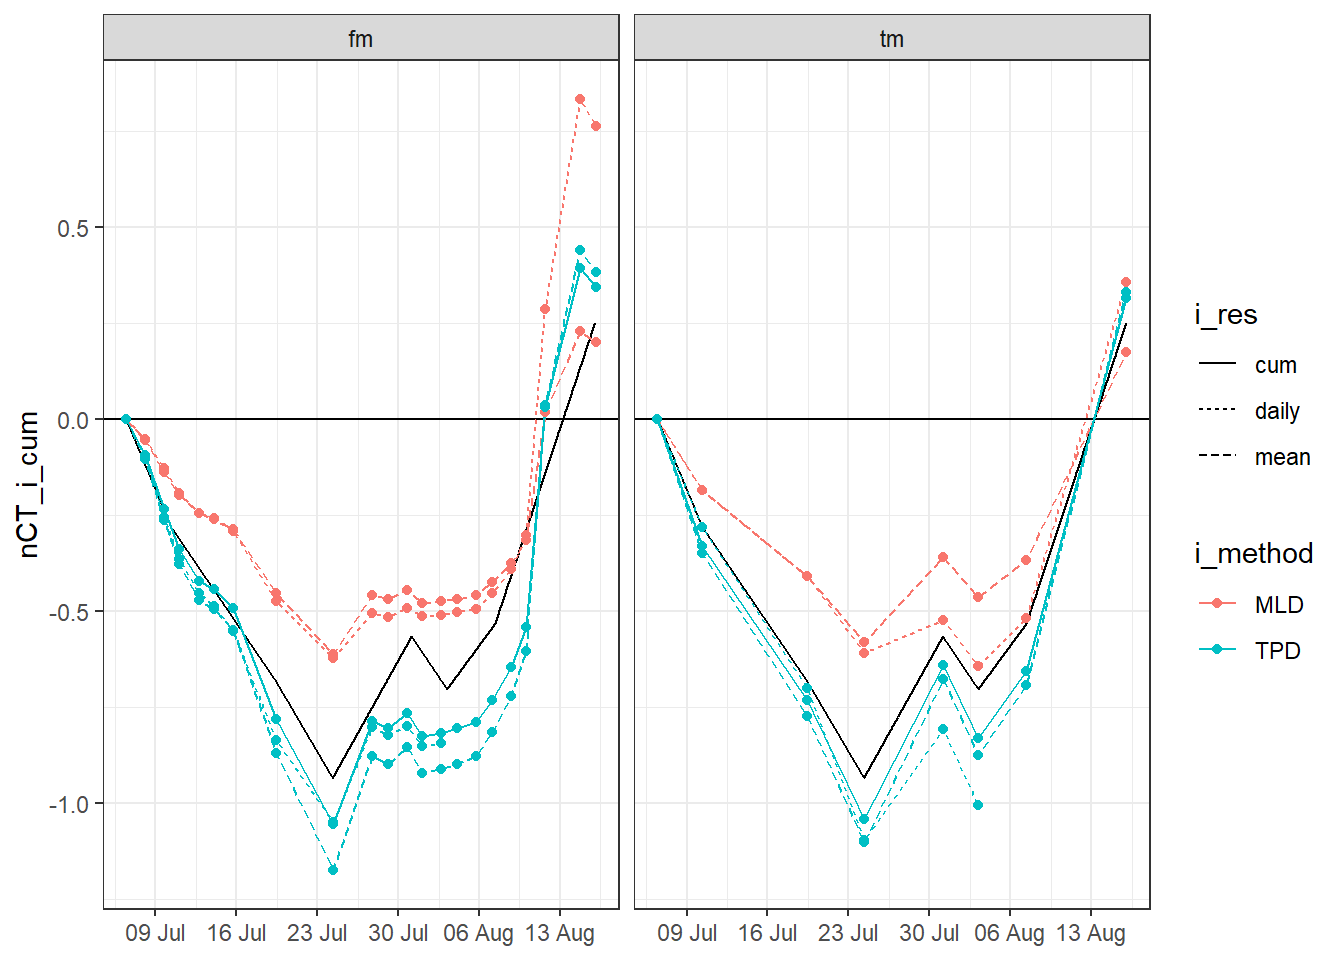
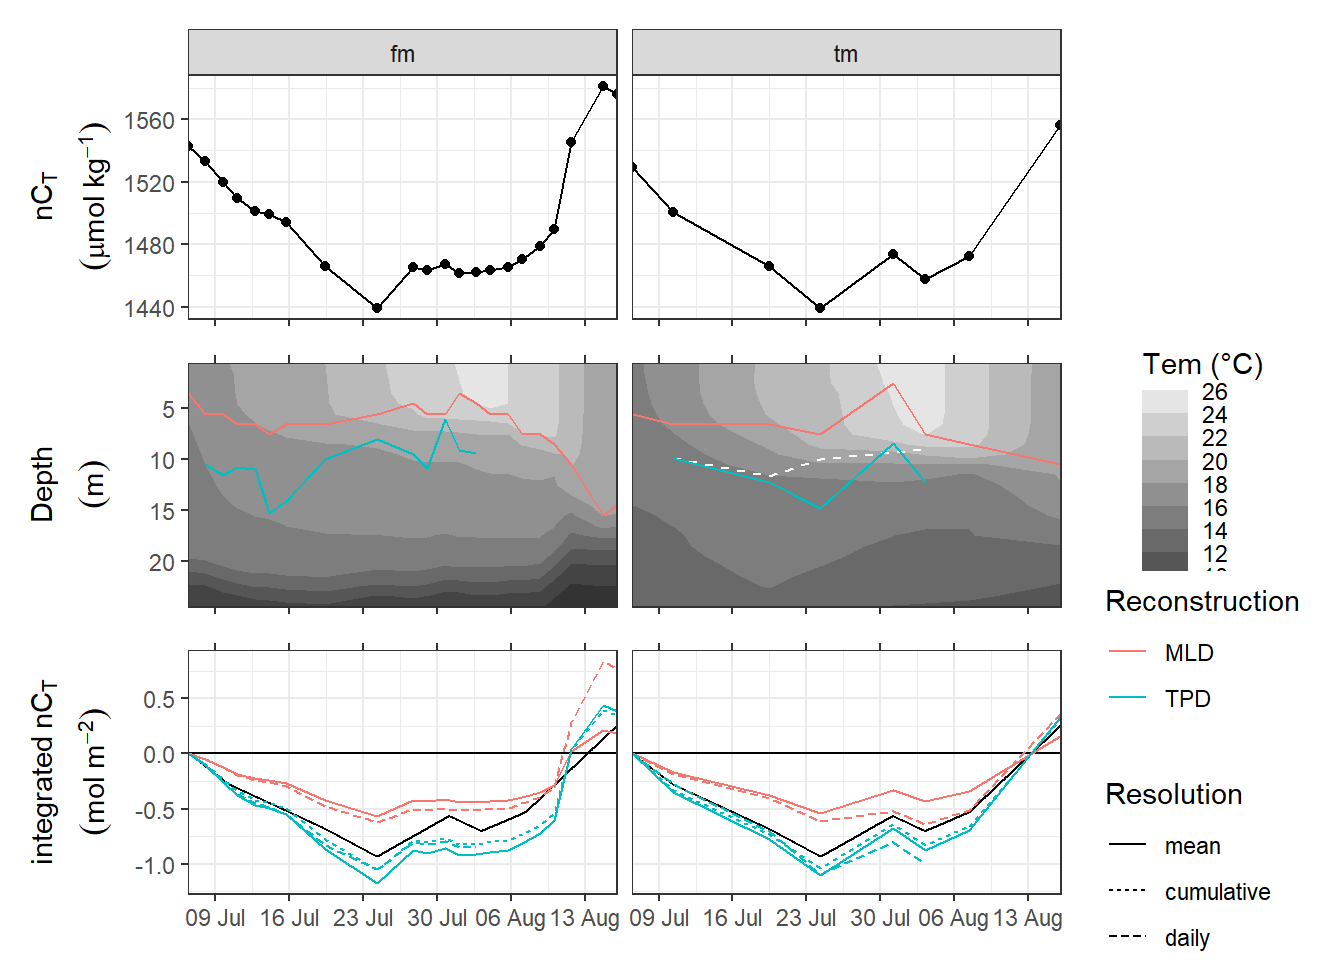
Build site.

diff --git a/docs/NCP_reconstruction.html b/docs/NCP_reconstruction.html
@@ -561,16 +561,16 @@ This reproducible <a href="http://rmarkdown.rstudio.com">R Markdown</a> analysis
 <div class="panel panel-default">
 <div class="panel-heading">
 <p class="panel-title">
-<a data-toggle="collapse" data-parent="#workflowr-checks" href="#strongRepositoryversionstrongahrefhttpsgithubcomjensdanielmuellerBloomSailtree2378108a87af3fb64e4fb4013e9561f3bdd7a095targetblank2378108a"> <span class="glyphicon glyphicon-ok text-success" aria-hidden="true"></span> <strong>Repository version:</strong> <a href="https://github.com/jens-daniel-mueller/BloomSail/tree/2378108a87af3fb64e4fb4013e9561f3bdd7a095" target="_blank">2378108</a> </a>
+<a data-toggle="collapse" data-parent="#workflowr-checks" href="#strongRepositoryversionstrongahrefhttpsgithubcomjensdanielmuellerBloomSailtreeef996405125132e45a9bcc71fbc90c40c1acdbdctargetblankef99640a"> <span class="glyphicon glyphicon-ok text-success" aria-hidden="true"></span> <strong>Repository version:</strong> <a href="https://github.com/jens-daniel-mueller/BloomSail/tree/ef996405125132e45a9bcc71fbc90c40c1acdbdc" target="_blank">ef99640</a> </a>
 </p>
 </div>
[2 lines of base64/hex data omitted]
 <div class="panel-body">
 <p>
 Great! You are using Git for version control. Tracking code development and connecting the code version to the results is critical for reproducibility.
 </p>
 <p>
-The results in this page were generated with repository version <a href="https://github.com/jens-daniel-mueller/BloomSail/tree/2378108a87af3fb64e4fb4013e9561f3bdd7a095" target="_blank">2378108</a>. See the <em>Past versions</em> tab to see a history of the changes made to the R Markdown and HTML files.
+The results in this page were generated with repository version <a href="https://github.com/jens-daniel-mueller/BloomSail/tree/ef996405125132e45a9bcc71fbc90c40c1acdbdc" target="_blank">ef99640</a>. See the <em>Past versions</em> tab to see a history of the changes made to the R Markdown and HTML files.
 </p>
 <p>
 Note that you need to be careful to ensure that all relevant files for the analysis have been committed to Git prior to generating the results (you can use <code>wflow_publish</code> or <code>wflow_git_commit</code>). workflowr only checks the R Markdown file, but you know if there are other scripts or data files that it depends on. Below is the status of the Git repository when the results were generated:
@@ -588,6 +588,9 @@ Ignored files:
     Ignored:    data/_summarized_data_files/
     Ignored:    data/backup/
     Ignored:    output/Plots/Figures_publication/.tmp.drivedownload/
+
+Untracked files:
+    Untracked:  output/Plots/Figures_publication/Article/reconstruction_timeseries.pdf
 
 </code></pre>
 <p>
@@ -626,6 +629,40 @@ Message
 </tr>
 </thead>
 <tbody>
+<tr>
+<td>
+Rmd
+</td>
+<td>
+<a href="https://github.com/jens-daniel-mueller/BloomSail/blob/ef996405125132e45a9bcc71fbc90c40c1acdbdc/analysis/NCP_reconstruction.Rmd" target="_blank">ef99640</a>
+</td>
+<td>
+jens-daniel-mueller
+</td>
+<td>
+2020-05-20
+</td>
+<td>
+finalized reconstruction approach
+</td>
+</tr>
+<tr>
+<td>
+html
+</td>
+<td>
+<a href="https://rawcdn.githack.com/jens-daniel-mueller/BloomSail/1e158374dfe6f37c60f2f5ee35c718c925542594/docs/NCP_reconstruction.html" target="_blank">1e15837</a>
+</td>
+<td>
+jens-daniel-mueller
+</td>
+<td>
+2020-05-20
+</td>
+<td>
+Build site.
+</td>
+</tr>
 <tr>
 <td>
 Rmd
@@ -908,7 +945,8 @@ library(metR)</code></pre>
 surface_dep &lt;- 6
 integration_dep &lt;- 12
 
-date_CT_min &lt;- ymd_hms(&quot;2018-07-24 07:58:29&quot;)</code></pre>
+date_CT_min &lt;- ymd_hms(&quot;2018-07-24 07:58:29&quot;)
+date_tem_max &lt;- ymd_hms(&quot;2018-08-04 00:00:00&quot;)</code></pre>
 </div>
 <div id="bloomsail-data" class="section level1">
 <h1><span class="header-section-number">2</span> BloomSail data</h1>
@@ -1090,7 +1128,11 @@ p_surface + p_integrated + p_pen_dep +
   &lt;chr&gt;      &lt;dbl&gt;    &lt;dbl&gt;
 1 nCT         10.1     1.11
 2 tem         11.5     2.46</code></pre>
-<pre class="r"><code>rm(p_surface, p_integrated, p_pen_dep)
+<pre class="r"><code>CPD &lt;- TPD %&gt;% 
+  filter(var == &quot;nCT&quot;) %&gt;% 
+  drop_na()
+
+rm(p_surface, p_integrated, p_pen_dep)
 rm(TPD, TPD_mean, tm_profiles_ID_long)</code></pre>
 </div>
 </div>
@@ -1504,7 +1546,7 @@ MLD &lt;- tm_fm_gt_MLD %&gt;%
 
 rm(tm_fm_gt_MLD)</code></pre>
 <pre class="r"><code>MLD_mean &lt;- MLD %&gt;% 
-  filter(date_time_ID &lt;= date_CT_min) %&gt;% 
+  filter(date_time_ID &lt;= date_tem_max) %&gt;% 
   group_by(source) %&gt;% 
   summarise(i_dep = mean(i_dep, na.rm = TRUE)) %&gt;% 
   ungroup() %&gt;% 
@@ -1711,7 +1753,7 @@ p_surface + p_integrated + p_TPD +
 <pre class="r"><code>TPD &lt;- TPD %&gt;% 
   select(date_time_ID, source, i_dep) %&gt;% 
   mutate(i_method = &quot;TPD&quot;, i_res = &quot;daily&quot;) %&gt;% 
-  filter(date_time_ID &lt; ymd_h(&quot;2018-08-04 00&quot;)) %&gt;% 
+  filter(date_time_ID &lt; date_tem_max) %&gt;% 
   mutate(i_dep = if_else(is.na(i_dep), 0, i_dep))
 
 TPD_cum &lt;- TPD_cum %&gt;% 
@@ -1732,6 +1774,42 @@ TPD &lt;- full_join(TPD, TPD_mean)
 rm(TPD_cum, TPD_mean, MLD_mean)</code></pre>
 <pre class="r"><code>i_dep &lt;- full_join(MLD, TPD)
 rm(MLD, TPD)</code></pre>
+<pre class="r"><code>bin &lt;- 2
+
+CPD &lt;- CPD %&gt;% 
+  mutate(source = &quot;tm&quot;)
+
+p_hov_dep &lt;- 
+  tm_fm_gt %&gt;% 
+  ggplot()+
+  geom_contour_fill(aes(date_time_ID, dep, z=tem),
+                    breaks = MakeBreaks(bin))+
+  geom_path(data = CPD,
+            aes(date_time_ID, i_dep),
+            col=&quot;white&quot;, linetype = 2)+
+  geom_path(data = i_dep %&gt;% filter(i_res == &quot;daily&quot; &amp; i_dep != 0),
+            aes(date_time_ID, i_dep, col=i_method))+
+  scale_fill_gradient(name=&quot;Tem (°C)&quot;,
+                      guide = &quot;colorstrip&quot;, breaks = MakeBreaks(bin),
+                      high = &quot;grey90&quot;,
+                      low = &quot;grey20&quot;)+
+  scale_color_discrete(name = &quot;Reconstruction&quot;, guide = FALSE)+
+  scale_y_reverse()+
+  scale_x_datetime(date_breaks = &quot;week&quot;,
+                   date_labels = &quot;%b %d&quot;,
+                   sec.axis = dup_axis())+
+  coord_cartesian(expand = 0)+
+  labs(y=expression(atop(Depth, (m))))+
+  theme(axis.title.x = element_blank(),
+        axis.text.x = element_blank(),
+        strip.background = element_blank(),
+        strip.text.x = element_blank(),
+        axis.text.x.top = element_blank())+
+  facet_wrap(~source)
+
+p_hov_dep</code></pre>
+<p><img src="figure/NCP_reconstruction.Rmd/tm_fm_gt_hovmoeller_tem_MLD_TPD-1.png" width="672" style="display: block; margin: auto;" /></p>
+<pre class="r"><code>rm(bin)</code></pre>
 </div>
 </div>
 </div>
@@ -1753,7 +1831,7 @@ tm_fm_gt_surface &lt;- tm_fm_gt_surface %&gt;%
          nCT_cum = cumsum(nCT_diff)) %&gt;% 
   ungroup()</code></pre>
 <pre class="r"><code>iCT &lt;- full_join(tm_fm_gt_surface, i_dep)
-rm(tm_fm_gt_surface, i_dep)</code></pre>
+rm(tm_fm_gt_surface)</code></pre>
 </div>
 <div id="ict" class="section level1">
 <h1><span class="header-section-number">8</span> iC<sub>T</sub></h1>
@@ -1767,16 +1845,45 @@ iCT &lt;- iCT %&gt;%
   ungroup()</code></pre>
 <pre class="r"><code>tm_NCP_cum &lt;- read_csv(here::here(&quot;Data/_merged_data_files/CT_dynamics&quot;,
                                   &quot;tm_NCP_cum.csv&quot;))</code></pre>
-<pre class="r"><code>iCT %&gt;% 
+<pre class="r"><code>p_nCT &lt;- iCT %&gt;% 
+  ggplot(aes(date_time_ID, nCT))+
+  geom_point()+
+  geom_path()+
+  scale_color_discrete(name = &quot;Reconstruction&quot;)+
+  scale_x_datetime(breaks = &quot;week&quot;, date_labels = &quot;%d %b&quot;,
+                   expand = c(0,0))+
+  scale_linetype(name=&quot;Resolution&quot;)+
+  facet_wrap(~source)+
+  labs(y = expression(atop(nC[T], (mu*mol~kg^{-1}))))+
+  theme(axis.title.x = element_blank(),
+        axis.text.x = element_blank())
+
+iCT &lt;- iCT %&gt;% 
+  mutate(i_res = fct_recode(i_res, `cumulative` = &quot;cum&quot;)) %&gt;% 
+  mutate(i_res = factor(i_res, c(&quot;mean&quot;, &quot;cumulative&quot;, &quot;daily&quot;)))
+
+p_iCT &lt;- iCT %&gt;% 
   ggplot()+
   geom_hline(yintercept = 0)+
-  geom_path(data=tm_NCP_cum, aes(date_time, nCT_i_cum))+
+  geom_path(data=tm_NCP_cum, aes(date_time, nCT_i_cum), col=&quot;black&quot;)+
   geom_path(aes(date_time_ID, iCT_cum, col=i_method, linetype=i_res))+
-  geom_point(aes(date_time_ID, iCT_cum, col=i_method, linetype=i_res))+
-  scale_x_datetime(breaks = &quot;week&quot;, date_labels = &quot;%d %b&quot;)+
+  scale_color_discrete(name = &quot;Reconstruction&quot;)+
+  scale_x_datetime(breaks = &quot;week&quot;, date_labels = &quot;%d %b&quot;,
+                   sec.axis = dup_axis(),
+                   expand = c(0,0))+
+  scale_linetype(name=&quot;Resolution&quot;)+
   facet_wrap(~source)+
-  theme(axis.title.x = element_blank())</code></pre>
+  labs(y=expression(atop(integrated~nC[T], (mol~m^{-2}))))+
+  guides(color = guide_legend(order = 1))+
+  theme(axis.title.x = element_blank(),
+        strip.background = element_blank(),
+        strip.text.x = element_blank(),
+        axis.text.x.top = element_blank())
+
+p_nCT / p_hov_dep / p_iCT</code></pre>
 <p><img src="figure/NCP_reconstruction.Rmd/iCT_time_series-1.png" width="672" style="display: block; margin: auto;" /></p>
+<pre class="r"><code>ggsave(here::here(&quot;output/Plots/Figures_publication/article&quot;, &quot;reconstruction_timeseries.pdf&quot;),
+       width = 210, height = 220, dpi = 300, units = &quot;mm&quot;)</code></pre>
 <br>
 <p>
 <button type="button" class="btn btn-default btn-workflowr btn-workflowr-sessioninfo" data-toggle="collapse" data-target="#workflowr-sessioninfo" style="display: block;">
